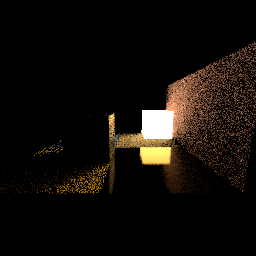
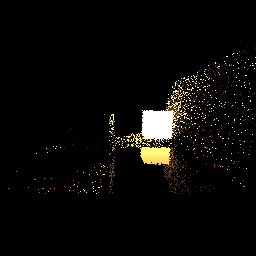
bench

diff --git a/src/bin.rs b/src/bin.rs
@@ -6,7 +6,7 @@ use lib::render::*;
 const WIDTH: usize = 256;
 const HEIGHT: usize = 256;
 
-const RPP: usize = 200;
+const RPP: usize = 10;
 const RBC: usize = 3;
 
 use lib::*;
